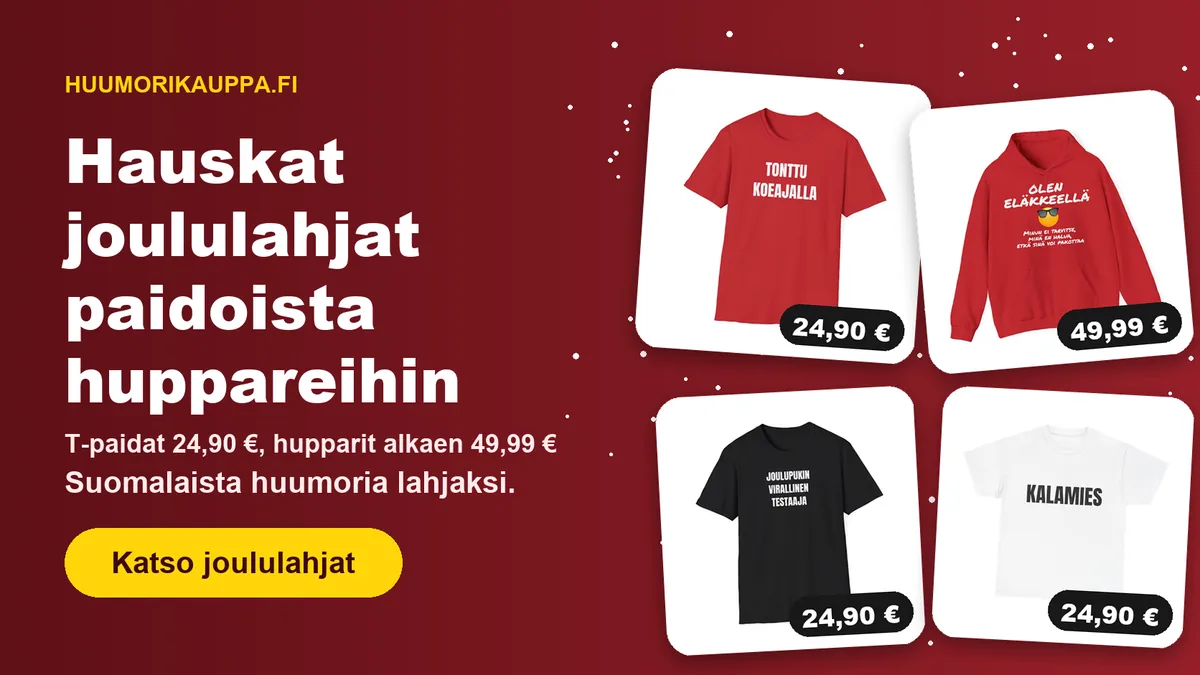
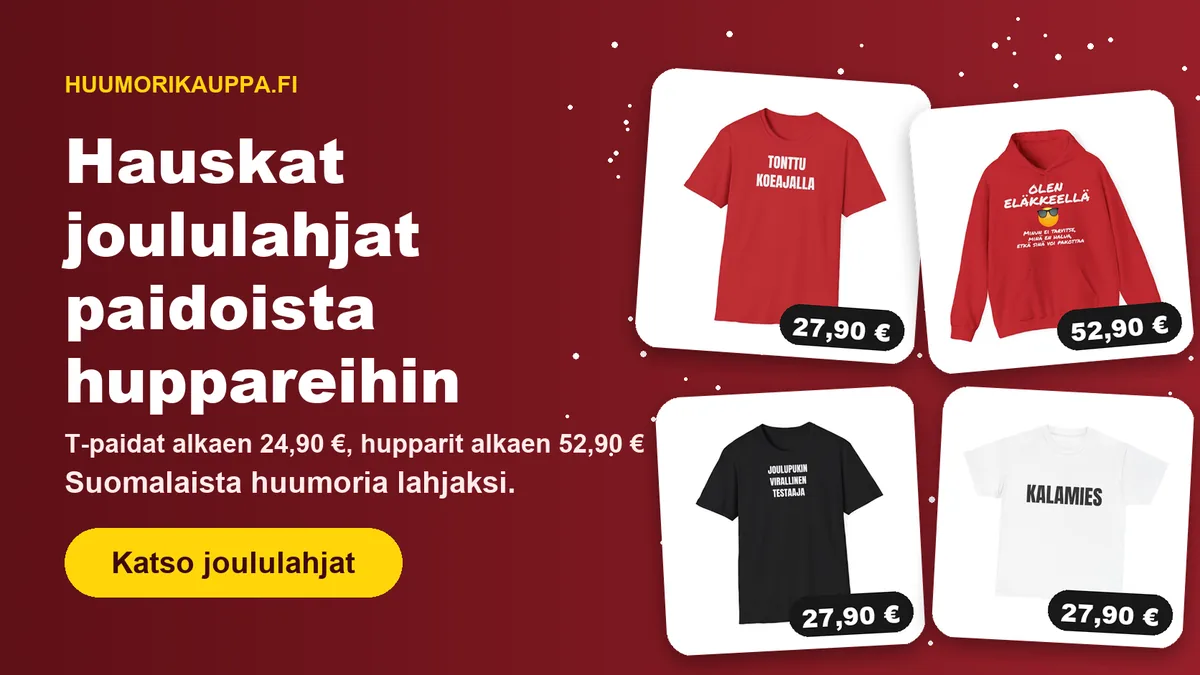
KATTEET: hinnoittelu 29.10.2026 (kilpailijat, heikoimmat katteet, koodit, maksutavat, Premium, ALV); etusivun kuva uusilla hinnoilla

diff --git a/KATTEET.md b/KATTEET.md
@@ -53,6 +53,195 @@ Stripe 1,5 % + 0,25 €. Yhden kappaleen tilaus, tuotteen kate = heikoin variant
 - Myynnissä 481 tuotetta, kulut tiedossa 481, Printify-tuote puuttuu 0.
 - Alle 40 %: nykyisellä kassalla (6,90 € / 79 €) 481 tuotetta, omalla taustalla (5,90 € / 60 €) 481.
 
+## Hinnoittelu 29.10.2026: keskikate vähintään 10 €, minimi 7 € (käytössä)
+
+**Aarnin päätös 29.10.2026:**
+- Keskikate vähintään 10,00 € tilausta kohden.
+- Jokaisesta tavallisesta tilauksesta jää kaikkien kulujen jälkeen vähintään 7,00 €. Kuluihin lasketaan Printify ilman
+  ALV:tä, Stripe, provisio ja alennukset.
+- Yritystilauksissa (10+ t-paitaa) riittää 5,00 € paitaa kohden.
+
+Kaava on api/_lib/kate.js laskeTilauksenNettokate: Stripe 1,5 % + 0,25 €, Printifyn toimitus painotaloittain.
+
+### Uudet hinnat (api/_lib/kokohinnat.js, julkaistu 29.10.2026)
+
+| Tuote | Ennen | Nyt | 3XL-5XL ennen | 3XL-5XL nyt |
+|---|---|---|---|---|
+| T-paita, suora kilpailijavertailu (14 designia: Saatanan tunarit, Tonnin seteli, I love my girlfriend/boyfriend, Alkoholiongelmaa, Maailman paras äiti, Kalju, Amatimies, Eläkeläinen, 100 % eläkeläinen, Olen eläkkeellä) | 24,90 € | 24,90 € | 24,90 € | 28,90 € |
+| Muut t-paidat (304 designia: harrastus- ja ammattisarjat, ikävuodet, joulu, kaupungit ja muut uniikit) | 24,90 € | 27,90 € | 24,90 € | 29,90 € |
+| Personoitu t-paita | 29,90 € | 29,90 € | 29,90 € | 29,90 € |
+| Huppari | 49,99 € | 52,90 € | 55,00 € | 59,90 € |
+| Juliste | 22,90 € | 24,90 € | | |
+| Keraaminen koriste | 19,90 € | 22,90 € | | |
+| Tarra | 11,90 € | 11,90 € (vain lisätuotteena) | | |
+
+- Toimitus pysyy 6,90 €:ssa ja ilmaisen toimituksen raja 79 €:ssa.
+- Toimitusmaksun nosto 7,90 €:oon toisi noin +0,40 € keskikatetta. Se jätettiin varalle, koska suorin kilpailija
+  (Hauskatpaidat.fi) perii 4,90 €.
+- Personoitu paita pysyy 29,90 €:ssa, koska kilpailijan oma printti maksaa enintään 30 €.
+
+### Kilpailijat (29.10.2026, kaupat avattu Chromella)
+
+| Kilpailija | T-paita | Oma printti / premium | Huppari | Toimitus |
+|---|---|---|---|---|
+| Hauskatpaidat.fi | 25 € | 25 € / 30 € | 45-69 € (yleensä 50-55 €) | 4,90 €, ilmainen yli 65 € |
+| Stuntman | 19,90-22,90 € | | 38,90-44,90 € (erikoismallit 59 €) | noutopiste 6,90 €, koti 12,90 € |
+| Meemirotta | | | 49,99 € (27.10.2026) | |
+| Huumoripaidat.com | | | | (sivu antoi virhesivun) |
+
+Uudet hinnat pysyvät kilpailijoiden haarukassa:
+- t-paidat 24,90-29,90 € (Hauskatpaidat.fi 25-30 €)
+- hupparit 52,90-59,90 € (Hauskatpaidat.fi 45-69 €)
+
+### Heikoin kate tuotannon kuluilla (?tehtava=katetaulu 29.10.2026)
+
+Yhden tuotteen tilaus, asiakas maksaa toimituksen 6,90 €. Kaikki myytävät variantit:
+
+| Ryhmä | Hinta | Heikoin | Keskiarvo | Alle 7 € |
+|---|---|---|---|---|
+| T-paita, suora vertailu | 24,90 € | 7,05 € | 7,21 € | 0 / 495 |
+| T-paita, suora vertailu 3XL+ | 28,90 € | 7,77 € | 9,18 € | 0 / 150 |
+| T-paita, muut | 27,90 € | 8,66 € | 9,56 € | 0 / 4 743 |
+| T-paita, muut 3XL+ | 29,90 € | 7,81 € | 9,88 € | 0 / 233 |
+| Huppari | 52,90 € | 7,35 € | 10,29 € | 0 / 2 675 |
+| Huppari 3XL+ | 59,90 € | 8,12 € | 10,76 € | 0 / 341 |
+| Juliste | 24,90 € | 8,23 € | 8,23 € | 0 / 12 |
+| Koriste | 22,90 € | 7,22 € | 7,22 € | 0 / 1 |
+| Tarra (yksin) | 11,90 € | 4,97 € | | kassa hylkää pelkän tarran |
+
+**3XL+ -hinnat:** ensimmäinen versio (3XL+ 27,90 € ja huppari 57,90 €) jätti 40 varianttia alle 7 €:n:
+- heikoin t-paita 4XL: 6,25 €
+- huppari 3XL: 6,55 €
+
+Siksi 3XL+ nostettiin, ja nyt yksikään variantti ei jää alle 7 €:n.
+
+**Alennukset ja 7 €:n raja** (api/_lib/kassa.js ja korialennus.js):
+- Alennuskoodi hylätään, jos tilauksen nettokate alennuksen jälkeen jäisi alle 7 €.
+- Pakettialennus ja kahden tuotteen -5 % jätetään antamatta samalla ehdolla (katevahti
+  KORIALENNUS_MIN_KATE_EUROA = 7).
+- Määräalennus koskee kaikkia t-paitoja, raja 5 € paitaa kohden.
+  - 10 t-paitaa 27,90 € -10 %: noin 8,8 €/paita.
+  - 50 t-paitaa 24,90 € -14 %: noin 6,5 €/paita.
+- Black Friday "2 t-paitaa 44,90 €" koskee vain 24,90 €:n t-paitoja (suora vertailu, S-2XL), ja katevahti on 7 €.
+  - Parin kate on 12,77 € (heikoin 10,71 €).
+  - 30 päivän alin hinta on 24,90 € (KSL 2:6 a §).
+  - Näiden paitojen hinta ei muuttunut, ja hintatarkistus hälyttää, jos se muuttuu.
+
+### Alennuskoodit (inventaario 29.10.2026)
+
+| Koodi | Mistä | Missä mainostettu | Käyttö | Päätös |
+|---|---|---|---|---|
+| HUUMORI5 (-5 %) | kanta discount_codes, koodin varalista OLETUSKOODIT ja kassasivun VALID_CODES | ei missään sivustolla, viesteissä eikä sähköposteissa | 1 tilaus (29.10., alennus 2,50 €) | poistettu käytöstä 29.10. |
+| PALAA10 (-10 %) | sama | ei missään (kassasivun kommentti mainitsi palautusviestit, mutta yksikään viesti ei käytä sitä) | 0 | poistettu käytöstä 29.10. |
+| TERVE-xxxx (ensitilaus) | api/_lib/markkinointi.js | uutiskirjeen tervetuloviesti | 0 | pois (ENSITILAUS_ALENNUS_PROSENTTI = 0) |
+| Stripe promotion codes / coupons | Stripe | | tilillä ei ole yhtään | |
+
+- Kannan rivit säilyvät historiaa varten (is_active = false).
+- Hallinta: ?tehtava=alennuskoodit[&poista=KOODI].
+- Uusi koodi hyväksytään kassalla vain, jos tilauksen kate pysyy vähintään 7 €:ssa.
+- Kumppanikoodi ei ole alennuskoodi.
+
+### Keskikate ennen ja jälkeen
+
+Tuotemix (sama kuin aiemmissa laskelmissa):
+- 70 % yksi t-paita
+- 5 % kaksi t-paitaa
+- 15 % huppari
+- 3 % t-paita ja huppari
+- 7 % juliste
+
+T-paitatilauksista 30 % on suoran vertailun paitoja (24,90 €) ja 70 % muita (27,90 €). Kumpikin osuus on oletus,
+koska oikeita tilauksia on vasta yksi.
+
+| | Yksi t-paita | Kaksi t-paitaa | Huppari | T-paita + huppari | Juliste | Keskikate |
+|---|---|---|---|---|---|---|
+| Ennen (24,90 / 49,99 / 22,90 €) | 7,22 € | 14,65 € | 7,86 € | 6,95 € | 6,67 € | **7,64 €** |
+| Nyt, ilman lisämyyntiä | 8,86 € | 17,8 € | 10,29 € | 9,87 € | 8,23 € | **9,51 €** |
+| Nyt, 10 % yhden paidan koreista saa toisen paidan | | | | | | **10,13 €** |
+
+- T-paita ja huppari ylittävät uusilla hinnoilla 79 €:n rajan, joten toimitus on ilmainen. Katevahti ei anna -5 %:a,
+  koska kate jäisi 6,71 €:oon.
+- Ostoskori ehdottaa toista t-paitaa aina, kun korissa on yksi t-paita (Lisää toinen t-paita). Samalla näytetään
+  linkki personoituun paitaan. Etusivulla ja tuotesivuilla nostetaan personoitu paita ja /yritykset.
+
+**Vaikutus kuukausikatteeseen nykyisellä tilausmäärällä (noin 6,5 tilausta/kk):**
+- ennen 7,64 € × 6,5 = 49,7 €/kk
+- nyt 9,51-10,13 € × 6,5 = 61,8-65,8 €/kk
+- muutos noin +12-16 €/kk
+
+3000 €/kk:n tavoite vaatii nykyisellä keskikatteella noin 300 tilausta kuukaudessa.
+
+### Maksutapojen kulut keskiostoksella (yksi t-paita 27,90 € + toimitus 6,90 € = 34,80 €)
+
+| Maksutapa (Stripe, Suomi) | Hinnasto | Kulu | Ero kortin perushintaan |
+|---|---|---|---|
+| Kortti (ETA, tavallinen), Apple Pay, Google Pay | 1,5 % + 0,25 € | 0,77 € | 0 |
+| Kortti (ETA, premium/yritys) | 2,8 % + 0,25 € | 1,22 € | +0,45 € |
+| Kortti (UK) | 2,5 % + 0,25 € | 1,12 € | +0,35 € |
+| Kortti (kansainvälinen) | 3,15 % + 0,25 € | 1,35 € | +0,58 € |
+| MobilePay | 1,5 % + 0,36 € + erillinen MobilePay-maksu (laskutetaan päivittäin) | 0,88 € + MobilePay-maksu | +0,11 € + MobilePay-maksu |
+| **Klarna** | 2,99 % + 0,40 € (+1,5 % kansainvälinen) | **1,44 €** | **+0,67 €** |
+
+Klarna vie eniten katetta. Ensimmäinen oikea tilaus maksettiin Klarnalla, ja Stripe-kulu oli 2,03 €.
+
+**Poikkeama 7 €:n minimiin:** kaikki katteet on laskettu kortin perushinnalla (1,5 % + 0,25 €). Klarna maksaa
+tilauksen summasta riippuen 0,6-1,0 € enemmän, premium-kortti 0,4-0,8 € enemmän. Klarnalla maksettuna heikoimmat
+variantit jäävät alle 7 €:n:
+
+| Variantti | Kortti | Klarna | Premium-kortti |
+|---|---|---|---|
+| 24,90 € t-paita | 7,05 € | 6,43 € | 6,64 € |
+| koriste | 7,22 € | 6,63 € | 6,83 € |
+| heikoin huppari | 7,35 € | 6,31 € | 6,64 € |
+
+Ryhmien keskiarvot pysyvät Klarnallakin yli 7 €:n, paitsi 24,90 €:n t-paidoilla (noin 6,6 €).
+
+Aarnin päätettävä:
+- (a) Klarna pois alle 60 €:n tilauksista (Stripe Checkoutin maksutavat valitaan tilauksen summan mukaan).
+- (b) Hyväksytään poikkeama Klarna- ja premium-korttimaksuille. Klarnan osuus tilauksista seurataan ensin.
+
+24,90 €:n paitojen hintaa ei voi nostaa: 25,90 € ylittäisi suoran kilpailijan 25 €:n hinnan.
+
+### Printify Premium (34,99 €/kk): kannattavuusraja
+
+Premium alentaa tuotekuluja enintään 20 %, toimituskuluihin se ei vaikuta.
+
+| Tilaus | Säästö |
+|---|---|
+| T-paita | 20 % × 8,90 € = 1,78 € |
+| Huppari | 20 % × noin 25 € = 5,0 € |
+| Keskiostos (yllä oleva mix) | noin 2,48 € |
+
+- Kannattavuusraja on 34,99 € / 2,48 € = **noin 14 tilausta kuukaudessa**.
+- Nykyisellä 6,5 tilauksella kuukaudessa säästö on noin 16 €/kk, mikä on vähemmän kuin 34,99 €. Premium ei kannata
+  vielä. Uusi tarkistus kannattaa tehdä, kun tilauksia on yli 15 kuukaudessa.
+- Premiumia ei tilattu.
+
+### Painotalot (vertailu 26.10.2026, osio "Halvin EU-vaihtoehto")
+
+| Tuote | Nykyinen painotalo | Vaihtoehto | Miksi ei siirretty |
+|---|---|---|---|
+| T-paita | OPT CZ (Gildan 64000): 8,90 € + toimitus 8,49 € | Textildruck DE: 9,28 € + 7,29 € | Kate on hiukan parempi (31,7 % vs. 28,5 %), mutta Black L puuttuu ja 3XL maksaa 10,68 €. |
+| Huppari | Textildruck DE: 24,77-25,48 € + 10,89 € | Atelier Katanga FR: 23,79 € + 10,89 € | Ash, Heather Navy ja Graphite Heather puuttuvat, ja 3XL+ on heikompi. |
+
+Molemmissa siirto pudottaisi värejä tai kokoja. Lisäksi 20 tuotteen tekstitasot pitäisi siirtää käsin. Siksi tuotteita
+ei siirretty. Toimitusaika Suomeen on kaikilla EU-painotaloilla sama (3-10 arkipäivää).
+
+### Printifyn ALV: vähennettävissä vai ei
+
+Printify perii Suomen ALV:n (25,5 %), eikä käännettyä verovelvollisuutta saa (ks. alku). Katteet yllä olettavat, että
+Uusiku Oy vähentää Printifyn ALV:n. Jos ALV ei ole vähennettävissä, Printify-kulut ovat 25,5 % suuremmat:
+
+| Tuote | Kate, ALV vähennettävissä | Kate, ALV ei vähennettävissä | Hinta, jolla kate on 7 € ilman vähennystä |
+|---|---|---|---|
+| T-paita, suora vertailu (OPT) | 7,05-7,22 € | noin 2,8 € | 30,90 € |
+| T-paita, muut (OPT) | 9,56 € (ka) | noin 5,1 € | 30,90 € |
+| Huppari (Textildruck) | 10,29 € (ka) | noin 1,2 € | 59,90 € (3XL+ noin 66,90 €) |
+
+Jos tilitoimisto toteaa, ettei ALV ole vähennettävissä, kaikkien t-paitojen ja huppareiden hintoja on nostettava.
+Silloin t-paidat ylittävät kilpailijoiden 25-30 €:n haarukan. Tilitoimiston vahvistus on siksi tärkeä ennen
+1.11.2026 (Uusiku Oy).
+
 ## Personoitu t-paita 29,90 € (29.10.2026)
 
 Gildan Softstyle 64000, OPT OnDemand (Tšekki, pp 30), lennosta luotava Printify-tuote tilauskohtaisella
@@ -70,6 +259,19 @@ t-paitaan verrattuna kate on noin 3,90 € suurempi. Personoitu paita ei kuulu t
 (kappalehinta ei ole 24,90 €), mutta kahden tuotteen -5 % koskee sitä kuten muitakin.
 
 ## Kumppanuusohjelma: provisio (hyväksytty 29.10.2026, käytössä)
+
+**Päivitys 29.10.2026 illalla:** raja nostettu 5,00 €:sta **7,00 €:oon** (KUMPPANUUS.minKateEuroa = 7). Uusilla
+hinnoilla provisio esimerkkitilauksissa:
+
+| Tilaus | Provisio |
+|---|---|
+| t-paita 27,90 € (kate 9,57 €) | 2,22 € (täysi 10 %) |
+| t-paita 24,90 € (kate 7,22 €) | 0,22 € |
+| kaksi t-paitaa 27,90 € | 4,22 € |
+| huppari 52,90 € (kate 10,14 €) | 3,14 € |
+| 25 t-paitaa | 43,65 € |
+
+Sivu /kumppanit, PROVISIOSAANTO ja KUMPPANIT-VIESTIPOHJA.md on päivitetty. Alla oleva 5 €:n laskelma on historiaa.
 
 **Sääntö (hyväksytty):** provisio on enintään 10 % tilauksen tuotteiden arvosta ilman ALV:tä ja toimitusta, ja
 enintään summa, joka jättää kauppaan provision jälkeen **vähintään 5,00 € nettokatetta**. Jos tilauksen kate on
